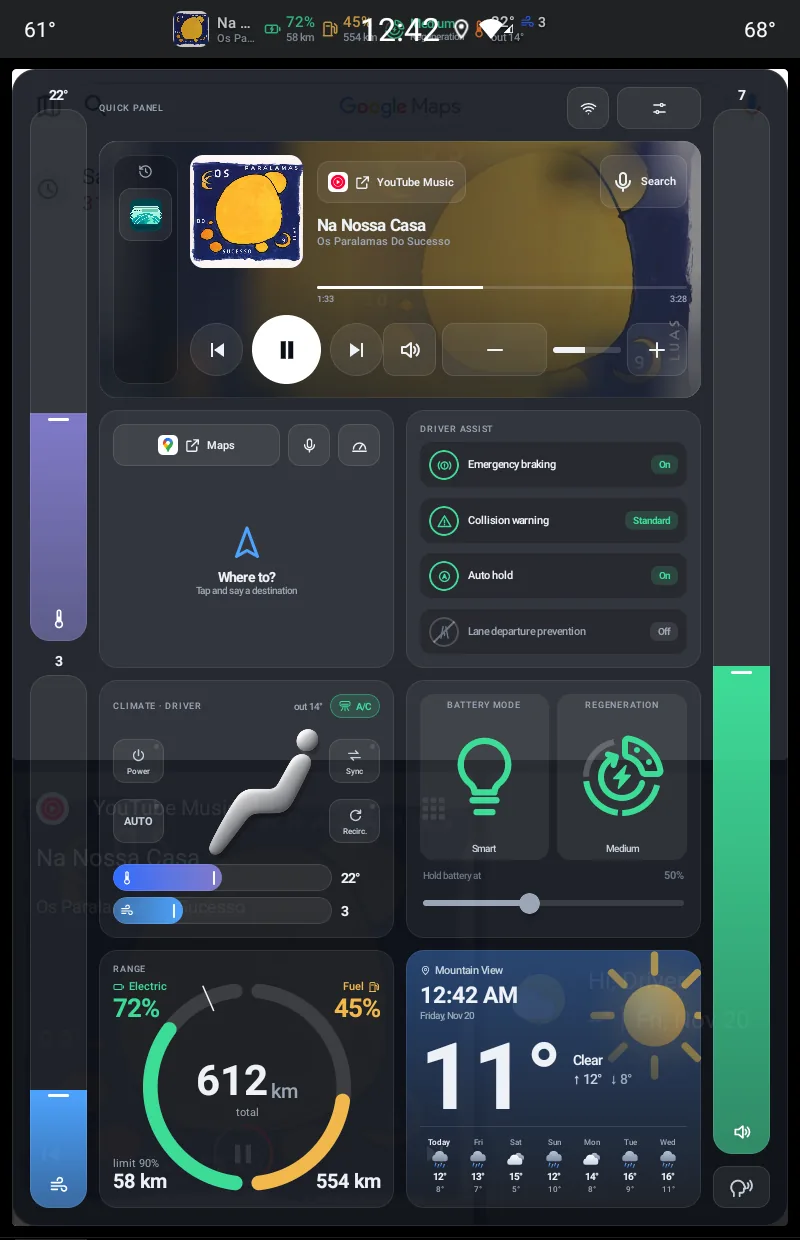
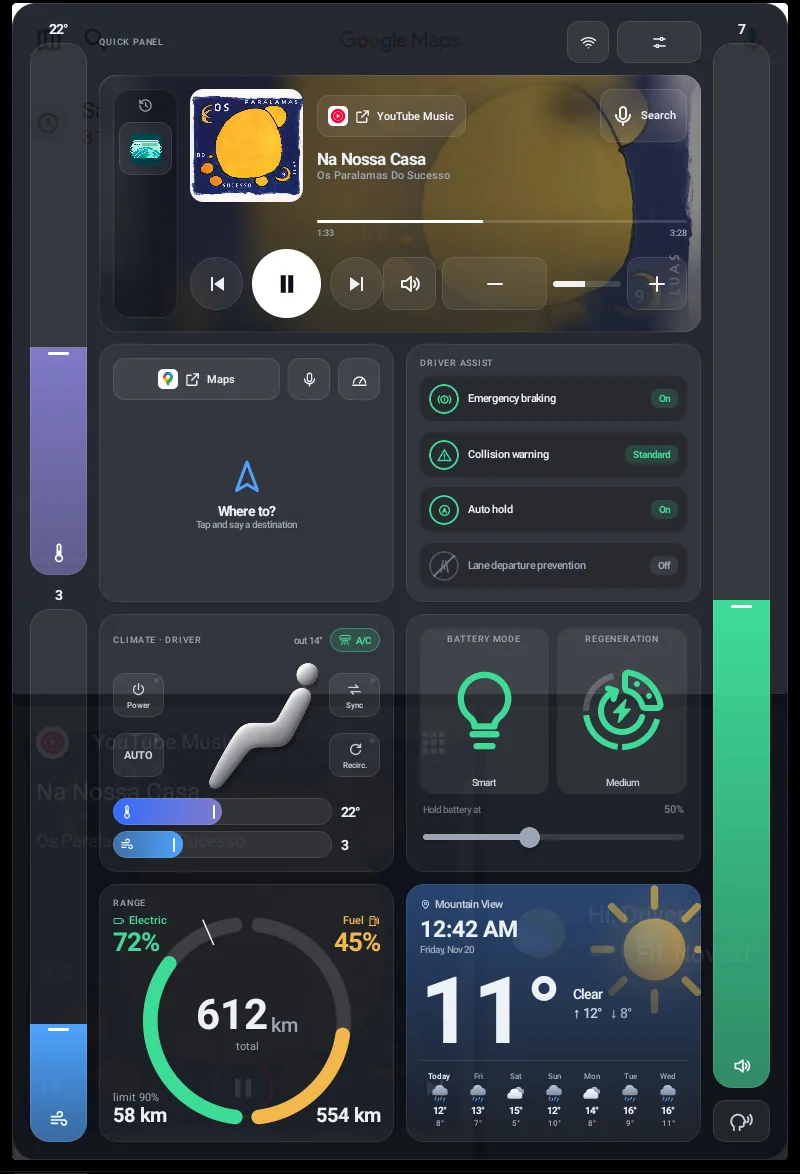
Draw the info bar from the app's layout; crop the car bar off screens
The info-bar slide is now drawn in HTML by topbar.js, from TopBar.kt's
icon paths, colours and dp sizes, in both states (no route, with a
route), instead of an emulator crop mixed with the emulator's own status
bar. The other screenshots drop the car's top bar.

diff --git a/docs/topbar.js b/docs/topbar.js
@@ -1,0 +1,105 @@
+// Draws the app's top info bar (ui/TopBar.kt) in HTML, from the same icon paths, colours and dp
+// sizes, so the site shows it without the emulator's own status bar mixed in. 1px = 1dp.
+// Values are the app's mock car (the emulator build). Fill <div class="topbar" data-variant="full|nav">.
+const PT = document.documentElement.lang.startsWith("pt");
+const L = PT
+  ? { regen: "Recuperação de energia", out: "ext.", title: "Night Drive", artist: "The Mock Band", dist: "300 m", street: "Av. Paulista", eta: "12:58 · 8 km", level: "Médio" }
+  : { regen: "Regeneration", out: "out", title: "Night Drive", artist: "The Mock Band", dist: "300 m", street: "Main Street", eta: "12:58 · 5 mi", level: "Medium" };
+
+const C = { text: "#EEF2F7", soft: "#C6D0DC", muted: "#9AA6B6", dim: "#6B7686", cool: "#2F6BFF", warm: "#FF7A2E", energy: "#3DDC97", fuel: "#F2B84B", route: "#4DA3FF", mode: "#3DDC97" };
+const ICON = {
+  batteryBolt: "M4 7h12a2 2 0 0 1 2 2v6a2 2 0 0 1-2 2H4a2 2 0 0 1-2-2V9a2 2 0 0 1 2-2zM21 10v4 M11 9l-2 3h3l-2 3",
+  fuel: "M4 21V5a2 2 0 0 1 2-2h6a2 2 0 0 1 2 2v16M3 21h12M14 9h2a2 2 0 0 1 2 2v5a1.5 1.5 0 0 0 3 0V8l-3-3M7 8h4",
+  wind: "M3 8h10a3 3 0 1 0-3-3M3 12h15a3 3 0 1 1-3 3M3 16h7",
+  thermometer: "M14 14.76V3.5a2 2 0 0 0-4 0v11.26a4 4 0 1 0 4 0zM12 10v5.5",
+  turnRight: "M7 20v-6a4 4 0 0 1 4-4h7M14 6l4 4-4 4",
+  pin: "M12 21s-7-6.5-7-11a7 7 0 0 1 14 0c0 4.5-7 11-7 11zM14.5 10a2.5 2.5 0 1 1-5 0a2.5 2.5 0 1 1 5 0",
+};
+const REGEN_RIM = "M 13.835938 3.1835938 C 7.5579375 4.2335938 3 9.624 3 16 C 3 23.168 8.832 29 16 29 C 22.376 29 27.767406 24.442063 28.816406 18.164062 C 28.907406 17.619063 28.539141 17.104672 27.994141 17.013672 C 27.447141 16.922672 26.93575 17.291937 26.84375 17.835938 C 25.95475 23.146937 21.395 27 16 27 C 9.935 27 5 22.065 5 16 C 5 10.605 8.8530625 6.04425 14.164062 5.15625 C 14.709063 5.06525 15.077328 4.5508594 14.986328 4.0058594 C 14.896328 3.4618594 14.378937 3.0955937 13.835938 3.1835938 z";
+const REGEN_BRAKE = "M 17.912109 2.1835938 C 17.472984 2.2054375 17.050234 2.3694531 16.708984 2.6582031 C 16.258984 3.0382031 16 3.5965469 16 4.1855469 L 16 8.265625 C 16 9.180625 16.607563 9.9724063 17.476562 10.191406 C 19.608563 10.731406 21.268594 12.390484 21.808594 14.521484 C 22.027594 15.391484 22.818375 16 23.734375 16 L 27.814453 16 C 28.404453 16 28.96175 15.740062 29.34375 15.289062 C 29.72875 14.833062 29.891016 14.234484 29.791016 13.646484 C 28.799016 7.7964844 24.203516 3.2029375 18.353516 2.2109375 C 18.205766 2.1856875 18.058484 2.1763125 17.912109 2.1835938 z M 18.019531 4.1816406 C 23.030531 5.0306406 26.968453 8.969 27.814453 14 L 23.748047 14.033203 C 23.027047 11.187203 20.812 8.973625 18 8.265625 L 18 4.1855469 L 18.019531 4.1816406 z M 21 6 C 20.448 6 20 6.448 20 7 C 20 7.552 20.448 8 21 8 C 21.552 8 22 7.552 22 7 C 22 6.448 21.552 6 21 6 z M 11.181641 7.4765625 C 10.792719 7.5184687 10.454437 7.7856406 10.335938 8.1816406 C 10.175937 8.7106406 10.475906 9.2677344 11.003906 9.4277344 L 11.300781 9.5175781 C 9.2627812 10.989578 8 13.365 8 16 C 8 20.411 11.589 24 16 24 C 19.569 24 22.649969 21.704156 23.667969 18.285156 C 23.825969 17.756156 23.523141 17.199969 22.994141 17.042969 C 22.463141 16.883969 21.908953 17.186844 21.751953 17.714844 C 20.987953 20.277844 18.677 22 16 22 C 12.691 22 10 19.309 10 16 C 10 14.07 10.907047 12.332656 12.373047 11.222656 L 12.226562 11.705078 C 12.066563 12.234078 12.366531 12.791172 12.894531 12.951172 C 12.991531 12.980172 13.088594 12.994141 13.183594 12.994141 C 13.613594 12.994141 14.010625 12.716203 14.140625 12.283203 L 14.957031 9.5742188 C 15.117031 9.0452188 14.817063 8.488125 14.289062 8.328125 L 11.580078 7.5136719 C 11.445828 7.4736719 11.311281 7.4625938 11.181641 7.4765625 z M 25 10 C 24.448 10 24 10.448 24 11 C 24 11.552 24.448 12 25 12 C 25.552 12 26 11.552 26 11 C 26 10.448 25.552 10 25 10 z M 17.210938 12.003906 C 17.143203 12.012953 17.075031 12.042813 17.019531 12.101562 L 13.070312 16.328125 C 12.907313 16.502125 13.03725 16.777344 13.28125 16.777344 L 15.154297 16.777344 L 14.558594 19.636719 C 14.494594 19.942719 14.897375 20.129578 15.109375 19.892578 L 18.931641 15.626953 C 19.088641 15.451953 18.957797 15.179688 18.716797 15.179688 L 16.826172 15.179688 L 17.564453 12.378906 C 17.625203 12.149406 17.414141 11.976766 17.210938 12.003906 z";
+
+const icon = (d, color, size, stroke = 2) =>
+  `<svg viewBox="0 0 24 24" style="width:${size}px;height:${size}px;flex:none" fill="none" stroke="${color}" stroke-width="${stroke}" stroke-linecap="round" stroke-linejoin="round"><path d="${d}"/></svg>`;
+
+// Brake disc with the rim cut in three wedges (Tiles.kt RegenDial); `lit` wedges in the mode colour.
+let uid = 0;
+function regenDial(lit, size) {
+  const pt = (deg, r = 48) => { const a = (deg * Math.PI) / 180; return `${16 + r * Math.cos(a)} ${16 + r * Math.sin(a)}`; };
+  const start = 9.6, section = 250.8 / 3, gap = 7;
+  let parts = "";
+  for (let i = 0; i < 3; i++) {
+    const a1 = start + i * section + gap / 2, a2 = a1 + section - gap, id = `rw${uid++}`;
+    parts += `<clipPath id="${id}"><path d="M16 16L${pt(a1)}A48 48 0 0 1 ${pt(a2)}Z"/></clipPath>`
+      + `<path d="${REGEN_RIM}" fill="${i < lit ? C.mode : "rgba(255,255,255,.2)"}" clip-path="url(#${id})"/>`;
+  }
+  return `<svg viewBox="0 0 32 32" style="width:${size}px;height:${size}px;flex:none"><path d="${REGEN_BRAKE}" fill="${lit ? C.mode : C.dim}" fill-rule="evenodd"/>${parts}</svg>`;
+}
+
+// Two half rings (MirrorRange.kt MirrorRing): electric up the left, fuel up the right.
+function mirrorRing(ev, fuel, size, stroke) {
+  const r = 16 - stroke / 2, gap = 7;
+  const arc = (from, sweep) => {
+    const p = (deg) => { const a = (deg * Math.PI) / 180; return `${16 + r * Math.cos(a)} ${16 + r * Math.sin(a)}`; };
+    return `M${p(from)}A${r} ${r} 0 0 ${sweep > 0 ? 1 : 0} ${p(from + sweep)}`;
+  };
+  const span = 180 - 2 * gap;
+  const seg = (from, dir, f, color) => `<path d="${arc(from, dir * span * f)}" stroke="${color}"/>`;
+  return `<svg viewBox="0 0 32 32" style="position:absolute;inset:0;width:100%;height:100%" fill="none" stroke-width="${stroke}" stroke-linecap="round">`
+    + seg(90 + gap, 1, 1, "rgba(255,255,255,.12)") + seg(90 - gap, -1, 1, "rgba(255,255,255,.12)")
+    + seg(90 + gap, 1, ev, C.energy) + seg(90 - gap, -1, fuel, C.fuel) + `</svg>`;
+}
+
+const halo = "text-shadow:0 1px 3px #000";
+const txt = (s, size, color = C.text, weight = 400, extra = "") =>
+  `<div style="font-size:${size}px;line-height:1.15;color:${color};font-weight:${weight};white-space:nowrap;overflow:hidden;text-overflow:ellipsis;${extra}">${s}</div>`;
+
+const nowPlaying = () =>
+  `<div style="display:flex;align-items:center;flex:1;min-width:0">
+     <div style="width:48px;height:48px;border-radius:12px;flex:none;background:radial-gradient(circle at 40% 40%,#ff9a6a,#e0457b 45%,#5b3bd1 90%)"></div>
+     <div style="margin-left:10px;min-width:0;${halo}">${txt(L.title, 20, C.text, 600)}${txt(L.artist, 15, C.muted)}</div>
+   </div>`;
+
+const stat = (d, color, value, sub) =>
+  `<div style="display:flex;align-items:center">${icon(d, color, 24)}<div style="margin-left:5px">${txt(value, 20, color, 600)}${txt(sub, 14, C.muted)}</div></div>`;
+
+const climate = () =>
+  `<div style="display:flex;align-items:center">${icon(ICON.thermometer, C.warm, 24)}
+     <div style="margin-left:4px;${halo}">
+       <div style="display:flex;align-items:center">${txt("22°", 20, C.text, 600)}<span style="width:6px"></span>${icon(ICON.wind, C.cool, 20)}<span style="width:4px"></span>${txt("3", 18, C.text, 600)}</div>
+       ${txt(`${L.out} 14°`, 14, C.muted)}
+     </div></div>`;
+
+function fullBar() {
+  return `<div style="display:flex;align-items:center;gap:8px;height:100%">${nowPlaying()}
+    ${stat(ICON.batteryBolt, C.energy, "72%", "58 km")}
+    ${stat(ICON.fuel, C.fuel, "45%", "554 km")}
+    <div style="display:flex;align-items:center">${regenDial(2, 30)}<div style="margin-left:5px">${txt(L.level, 17, C.energy, 600)}${txt(L.regen, 13, C.muted)}</div></div>
+    ${climate()}</div>`;
+}
+
+function navBar() {
+  const tile = 44;
+  return `<div style="display:flex;align-items:center;gap:14px;height:100%">${nowPlaying()}
+    <div style="display:flex;align-items:center;max-width:50%;min-width:0">
+      <div style="width:${tile}px;height:${tile}px;border-radius:${tile * 0.26}px;background:${C.route};display:grid;place-items:center;flex:none;box-shadow:0 2px 4px rgba(0,0,0,.5);border:1px solid rgba(0,0,0,.35)">${icon(ICON.turnRight, "#fff", tile * 0.64, 2.6)}</div>
+      <div style="margin-left:10px;min-width:0;${halo}">${txt(L.dist, 18, C.text, 700)}${txt(L.street, 14, C.soft, 500)}
+        <div style="display:flex;align-items:center;gap:3px">${icon(ICON.pin, C.muted, 12)}${txt(L.eta, 13, C.muted, 600)}</div></div>
+    </div>
+    <div style="position:relative;width:45px;height:45px;flex:none;display:grid;place-items:center">${mirrorRing(0.72, 0.45, 45, 4 * 32 / 45)}
+      <div style="text-align:center">${txt("72%", 14, C.energy, 700)}${txt("45%", 14, C.fuel, 700)}</div></div>
+    ${regenDial(2, 34)}
+    <div style="display:grid;gap:2px;${halo}">
+      <div style="display:flex;align-items:center;gap:4px">${icon(ICON.thermometer, C.warm, 20)}${txt("22°", 16, C.text, 600)}</div>
+      <div style="display:flex;align-items:center;gap:4px">${icon(ICON.wind, C.cool, 20)}${txt("3", 16, C.text, 600)}</div>
+    </div></div>`;
+}
+
+for (const el of document.querySelectorAll(".topbar")) {
+  el.innerHTML = el.dataset.variant === "nav" ? navBar() : fullBar();
+}
+// The bar is laid out at 600 dp (px); zoom scales it to the slide's width.
+for (const box of document.querySelectorAll(".bars")) {
+  new ResizeObserver(() => {
+    for (const bar of box.querySelectorAll(".topbar")) bar.style.zoom = box.clientWidth / 600;
+  }).observe(box);
+}

diff --git a/docs/pt/index.html b/docs/pt/index.html
@@ -36,7 +36,7 @@
         </div>
       </div>
       <div class="device">
-        <img src="../img/full-pt.webp" width="800" height="1240" alt="QuickSettings totalmente aberto sobre a tela inicial: cartões de mídia, navegação, assistência, clima, modo da bateria, autonomia e tempo">
+        <img src="../img/full-pt.webp" width="800" height="1174" alt="QuickSettings totalmente aberto sobre a tela inicial: cartões de mídia, navegação, assistência, clima, modo da bateria, autonomia e tempo">
       </div>
     </div>
   </section>
@@ -48,19 +48,22 @@
       <div class="carousel" aria-roledescription="carrossel">
         <div class="track" tabindex="0">
           <article class="slide">
-            <figure><img src="../img/semi-pt.webp" width="800" height="1240" loading="lazy" alt="Meia gaveta na borda esquerda com blocos pequenos"></figure>
+            <figure><img src="../img/semi-pt.webp" width="800" height="1174" loading="lazy" alt="Meia gaveta na borda esquerda com blocos pequenos"></figure>
             <div><div class="kicker">Barra lateral</div><h3>Meia gaveta, de relance</h3><p>Toque na alça na borda da tela e entra uma coluna de blocos pequenos: capa do álbum, o quadrante do clima, modo da bateria e regeneração, anéis de autonomia, próxima manobra, assistência e tempo. Pressione e arraste um bloco para mudá-lo sem abrir nada.</p></div>
           </article>
           <article class="slide">
-            <figure><img src="../img/full-pt.webp" width="800" height="1240" loading="lazy" alt="Gaveta totalmente aberta com cartões grandes"></figure>
+            <figure><img src="../img/full-pt.webp" width="800" height="1174" loading="lazy" alt="Gaveta totalmente aberta com cartões grandes"></figure>
             <div><div class="kicker">Gaveta completa</div><h3>Todos os controles num deslize</h3><p>Deslize para baixo logo abaixo da barra superior, mesmo sobre um app em tela cheia, para os cartões grandes: mídia com controles e volume, navegação, assistência com as travas originais, o banco do clima, modo da bateria e regeneração, autonomia e tempo. Os controles de temperatura e ventilação ficam nas laterais.</p></div>
           </article>
           <article class="slide">
-            <figure><img src="../img/infobar-pt.webp" width="800" height="230" loading="lazy" alt="Barra de informações na barra superior do carro com mídia, bateria, combustível, regeneração e clima"></figure>
-            <div><div class="kicker">Barra superior</div><h3>Informações ao lado do relógio</h3><p>Mídia, bateria e combustível com a autonomia de cada um, regeneração e clima ficam na própria barra superior do carro. Ela sai da frente enquanto um app em tela cheia, como o Android Auto, esconde essa barra.</p></div>
+            <figure><div class="bars" role="img" aria-label="Barra de informações com mídia, bateria, combustível, recuperação de energia e clima; com rota, a próxima manobra e um anel de autonomia">
+              <span>Sem rota</span><div class="topbar" data-variant="full"></div>
+              <span>Com rota</span><div class="topbar" data-variant="nav"></div>
+            </div></figure>
+            <div><div class="kicker">Barra superior</div><h3>Informações ao lado do relógio</h3><p>Mídia, bateria e combustível com a autonomia de cada um, recuperação de energia e clima ficam na própria barra superior do carro. Com uma rota, a próxima manobra entra junto e a autonomia vira um anel. Ela sai da frente enquanto um app em tela cheia, como o Android Auto, esconde essa barra.</p></div>
           </article>
           <article class="slide">
-            <figure><img src="../img/settings-pt.webp" width="800" height="1240" loading="lazy" alt="Tela de ajustes com posição da gaveta, opções da alça e lista de widgets"></figure>
+            <figure><img src="../img/settings-pt.webp" width="800" height="1174" loading="lazy" alt="Tela de ajustes com posição da gaveta, opções da alça e lista de widgets"></figure>
             <div><div class="kicker">Ajustes</div><h3>Do seu jeito</h3><p>Escolha o lado e a altura da alça, toque ou deslize para abrir, ligue ou desligue a barra de informações e reordene ou esconda widgets separadamente para a meia gaveta e a gaveta aberta. O painel Status mostra ao vivo a ligação com o carro, a mídia e o acesso às notificações.</p></div>
           </article>
           <article class="slide">
@@ -180,6 +183,7 @@
   </div>
 </footer>
 
+<script src="../topbar.js" defer></script>
 <script src="../carousel.js" defer></script>
 <script type="module" src="../setup.js"></script>
 </body>

diff --git a/docs/index.html b/docs/index.html
@@ -36,7 +36,7 @@
         </div>
       </div>
       <div class="device">
-        <img src="img/full-en.webp" width="800" height="1240" alt="QuickSettings fully open over the home screen: media, navigation, driver assist, climate, battery mode, range and weather cards">
+        <img src="img/full-en.webp" width="800" height="1174" alt="QuickSettings fully open over the home screen: media, navigation, driver assist, climate, battery mode, range and weather cards">
       </div>
     </div>
   </section>
@@ -48,19 +48,22 @@
       <div class="carousel" aria-roledescription="carousel">
         <div class="track" tabindex="0">
           <article class="slide">
-            <figure><img src="img/semi-en.webp" width="800" height="1240" loading="lazy" alt="Half-open drawer on the left edge with small widget tiles"></figure>
+            <figure><img src="img/semi-en.webp" width="800" height="1174" loading="lazy" alt="Half-open drawer on the left edge with small widget tiles"></figure>
             <div><div class="kicker">Side bar</div><h3>Half-open, at a glance</h3><p>Touch the handle on the screen edge and a column of small tiles slides in: album art, the climate quadrant, battery mode and regen, range rings, next turn, driver assist and weather. Press and drag a tile to change it without opening anything.</p></div>
           </article>
           <article class="slide">
-            <figure><img src="img/full-en.webp" width="800" height="1240" loading="lazy" alt="Fully open drawer with large cards"></figure>
+            <figure><img src="img/full-en.webp" width="800" height="1174" loading="lazy" alt="Fully open drawer with large cards"></figure>
             <div><div class="kicker">Full drawer</div><h3>Every control, one swipe</h3><p>Swipe down just below the top bar, even over a full-screen app, for large cards: media with transport and volume, navigation, driver assist with the stock gates, the climate seat, battery mode and regeneration, range and weather. Temperature and fan sliders run along the sides.</p></div>
           </article>
           <article class="slide">
-            <figure><img src="img/infobar-en.webp" width="800" height="230" loading="lazy" alt="Info bar in the car's top bar showing media, battery, fuel, regeneration and climate"></figure>
-            <div><div class="kicker">Top bar</div><h3>Info bar beside the clock</h3><p>Media, battery and fuel with their ranges, regeneration and climate live in the car's own top bar. It steps aside while a full-screen app such as Android Auto hides that bar.</p></div>
+            <figure><div class="bars" role="img" aria-label="Info bar showing media, battery, fuel, regeneration and climate; with a route, the next turn and a range ring">
+              <span>No route</span><div class="topbar" data-variant="full"></div>
+              <span>With a route</span><div class="topbar" data-variant="nav"></div>
+            </div></figure>
+            <div><div class="kicker">Top bar</div><h3>Info bar beside the clock</h3><p>Media, battery and fuel with their ranges, regeneration and climate live in the car's own top bar. With a route, the next turn joins them and range folds into a ring. It steps aside while a full-screen app such as Android Auto hides that bar.</p></div>
           </article>
           <article class="slide">
-            <figure><img src="img/settings-en.webp" width="800" height="1240" loading="lazy" alt="Settings screen with drawer position, handle options and the widget list"></figure>
+            <figure><img src="img/settings-en.webp" width="800" height="1174" loading="lazy" alt="Settings screen with drawer position, handle options and the widget list"></figure>
             <div><div class="kicker">Settings</div><h3>Make it yours</h3><p>Pick the side and the height of the handle, choose between touch and swipe, turn the info bar on or off, and reorder or hide widgets separately for the half-open and open drawer. A Status panel shows the car link, media and notification access live.</p></div>
           </article>
           <article class="slide">
@@ -180,6 +183,7 @@
   </div>
 </footer>
 
+<script src="topbar.js" defer></script>
 <script src="carousel.js" defer></script>
 <script type="module" src="setup.js"></script>
 </body>

diff --git a/docs/site.css b/docs/site.css
@@ -76,7 +76,7 @@ h2 { font-size: clamp(28px, 3.6vw, 40px); letter-spacing: -.02em; line-height: 1
   background: linear-gradient(180deg, rgba(255,255,255,.05), rgba(255,255,255,.02)); border: 1px solid var(--hair);
   border-radius: 24px; padding: 28px;
 }
-.slide figure { margin: 0; height: 520px; display: grid; place-items: center; background: #06080c; border-radius: 16px; padding: 14px; }
+.slide figure { margin: 0; height: 520px; display: grid; grid-template-columns: minmax(0, 1fr); place-items: center; background: #06080c; border-radius: 16px; padding: 14px; }
 .slide figure img { max-height: 492px; width: auto; height: auto; max-width: 100%; border-radius: 10px; }
 .slide h3 { font-size: 24px; margin: 0 0 8px; letter-spacing: -.01em; }
 .slide p { color: var(--muted); margin: 0; }
@@ -86,6 +86,10 @@ h2 { font-size: clamp(28px, 3.6vw, 40px); letter-spacing: -.02em; line-height: 1
   .slide figure { height: 420px; }
   .slide figure img { max-height: 392px; }
 }
+/* Info bar drawn by topbar.js: 1px = 1dp, a 600 dp strip zoomed to the figure's width */
+.bars { width: 100%; display: grid; gap: 10px; }
+.bars span { color: var(--dim); font-size: 12px; font-weight: 600; letter-spacing: .08em; text-transform: uppercase; margin-top: 8px; }
+.topbar { width: 600px; height: 64px; padding: 0 12px; background: #14171c; border-radius: 10px; overflow: hidden; }
 .carousel-nav { display: flex; align-items: center; justify-content: center; gap: 16px; margin-top: 18px; }
 .dots { display: flex; gap: 8px; }
 .dots button { width: 10px; height: 10px; border-radius: 50%; border: 0; padding: 0; background: var(--dim); cursor: pointer; transition: width .2s, background .2s; }
